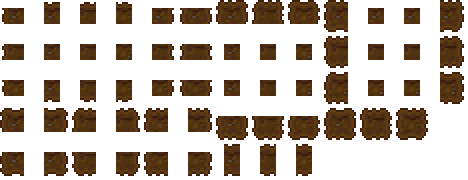
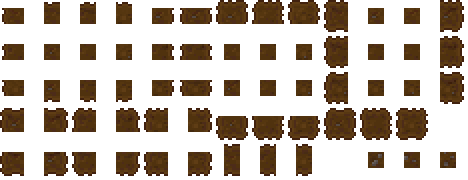
Savanna Dirt Wall with Iban Alterations

diff --git a/Content/Savanna/Walls/SavannaDirtWall.cs b/Content/Savanna/Walls/SavannaDirtWall.cs
@@ -19,6 +19,19 @@ public class SavannaDirtWall : ModWall, IAutoloadWallItem
 			.AddTile(TileID.WorkBenches)
 			.Register();
 	}
-
 	public override void SetStaticDefaults() => AddMapEntry(new Color(98, 39, 5));
+
+	public override bool WallFrame(int i, int j, bool randomizeFrame, ref int style, ref int frameNumber)
+	{
+		//Inner part of the wall
+		if (style == 15 && WorldGen.genRand.NextBool(70))
+		{
+			Tile t = Main.tile[i, j];
+			t.WallFrameNumber = frameNumber;
+			t.WallFrameX = (10 + frameNumber) * 36;
+			t.WallFrameY = 4 * 36;
+			return false;
+		}
+		return true;
+	}
 }
